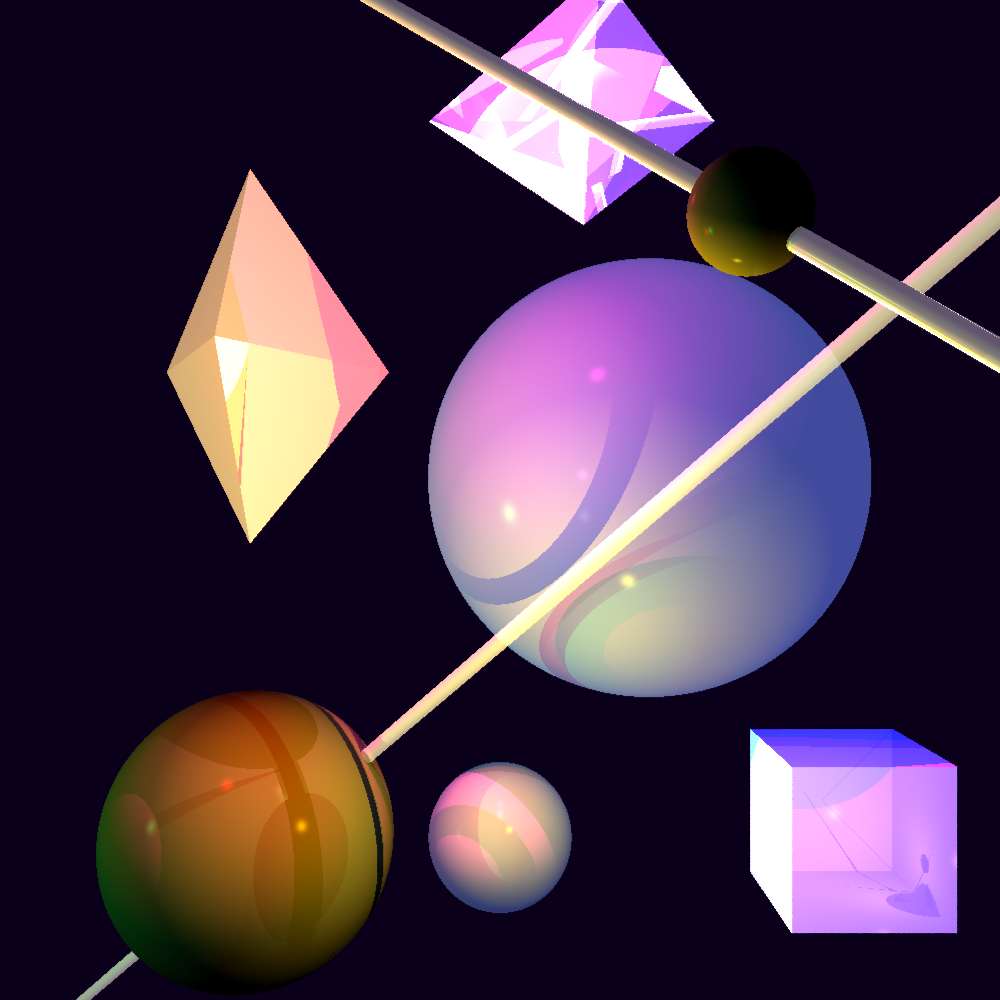
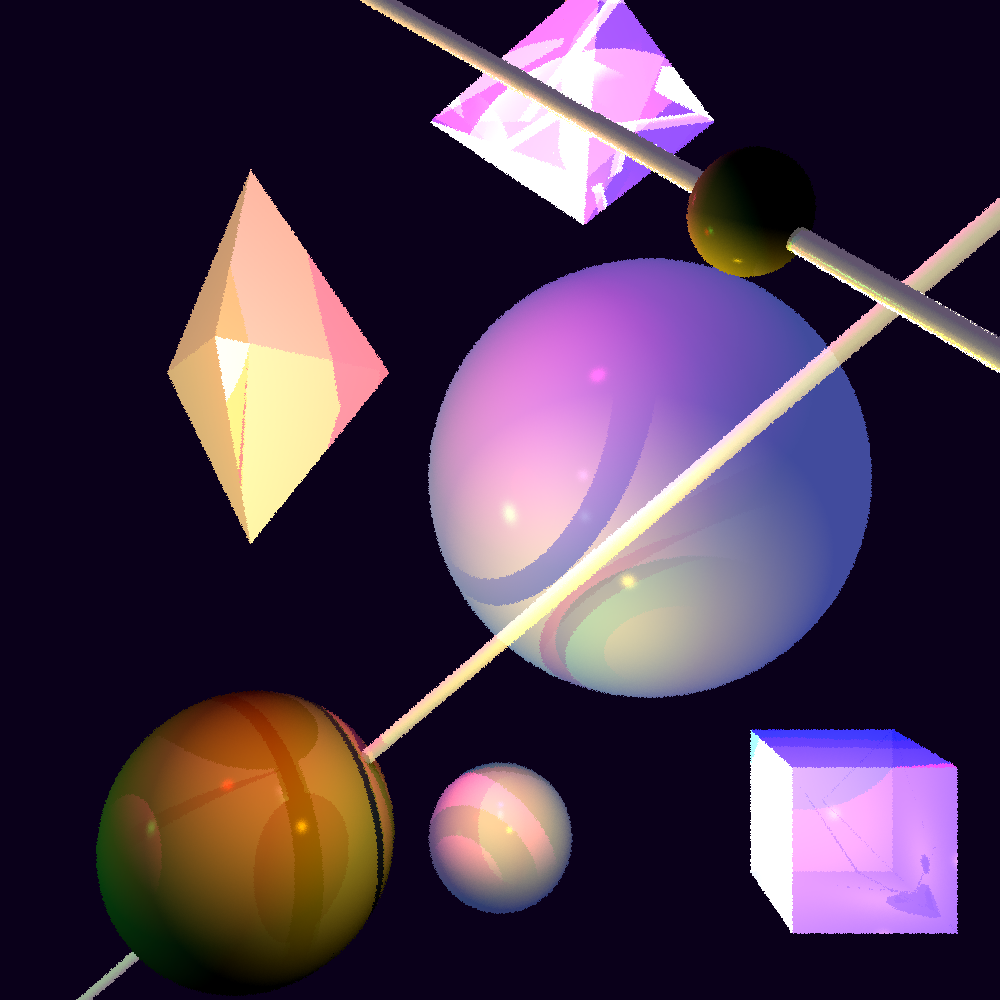
test

diff --git a/src/renderer/Camera.java b/src/renderer/Camera.java
@@ -8,6 +8,7 @@ import static primitives.Util.alignZero;
 import static primitives.Util.isZero;
 import java.util.stream.*;
 
+
 /**
  * Camera class represents a camera in 3D space with a position and orientation.
  * It uses the Builder design pattern to construct instances.
@@ -19,7 +20,7 @@ public class Camera implements Cloneable {
     private double vpWidth = 0.0;
     private double vpHeight = 0.0;
     private double vpDistance = 0.0;
-    int numOfRays=4;
+    int numOfRays=2;
     private double print = 0;
 
     // Image writer for creating the image file by the camera

diff --git a/src/renderer/ImageWriter.java b/src/renderer/ImageWriter.java
@@ -10,6 +10,7 @@ import javax.imageio.ImageIO;
 
 import primitives.Color;
 
+
 /** Image writer class combines accumulation of pixel color matrix and finally
  * producing a non-optimized jpeg image from this matrix. The class although is
  * responsible for holding image related parameters of View Plane - pixel matrix

diff --git a/src/lighting/SpotLight.java b/src/lighting/SpotLight.java
@@ -6,8 +6,9 @@ import primitives.Vector;
 
 import static primitives.Util.alignZero;
 
+
 /**
- * Class representing a spotlight source.
+ * Class representing a spotlight source
  */
 public class SpotLight extends PointLight {
     private final Vector direction;

diff --git a/src/lighting/DirectionalLight.java b/src/lighting/DirectionalLight.java
@@ -20,6 +20,7 @@ public class DirectionalLight extends Light implements LightSource {
         this.direction = direction.normalize();
     }
 
+
     /**
      * Get the intensity of the light at a point.
      * @param p the point

diff --git a/src/lighting/LightSource.java b/src/lighting/LightSource.java
@@ -4,6 +4,7 @@ import primitives.Color;
 import primitives.Point;
 import primitives.Vector;
 
+
 /**
  * Interface for different light sources in the scene.
  */

diff --git a/src/lighting/PointLight.java b/src/lighting/PointLight.java
@@ -4,6 +4,7 @@ import primitives.Color;
 import primitives.Point;
 import primitives.Vector;
 
+
 /**
  * Class representing a point light source.
  */

diff --git a/src/lighting/AmbientLight.java b/src/lighting/AmbientLight.java
@@ -3,6 +3,7 @@ package lighting;
 import primitives.Color;
 import primitives.Double3;
 
+
 /**
  * Class representing ambient light for scenes.
  */

diff --git a/src/lighting/Light.java b/src/lighting/Light.java
@@ -2,6 +2,7 @@ package lighting;
 
 import primitives.Color;
 
+
 /**
  * Abstract class for different types of light sources in the scene.
  */

diff --git a/src/renderer/PixelManager.java b/src/renderer/PixelManager.java
@@ -91,4 +91,5 @@ class PixelManager {
             if (flag) System.out.printf(PRINT_FORMAT, percentage / 10d);
         }
     }
+
 }

diff --git a/src/renderer/SimpleRayTracer.java b/src/renderer/SimpleRayTracer.java
@@ -253,4 +253,6 @@ public class SimpleRayTracer extends RayTracerBase {
         }
         return ktr;
     }
+
 }
+

diff --git a/src/renderer/RayTracerBase.java b/src/renderer/RayTracerBase.java
@@ -25,3 +25,4 @@ public abstract class RayTracerBase {
      */
     public abstract Color traceRay(Ray ray);
 }
+
